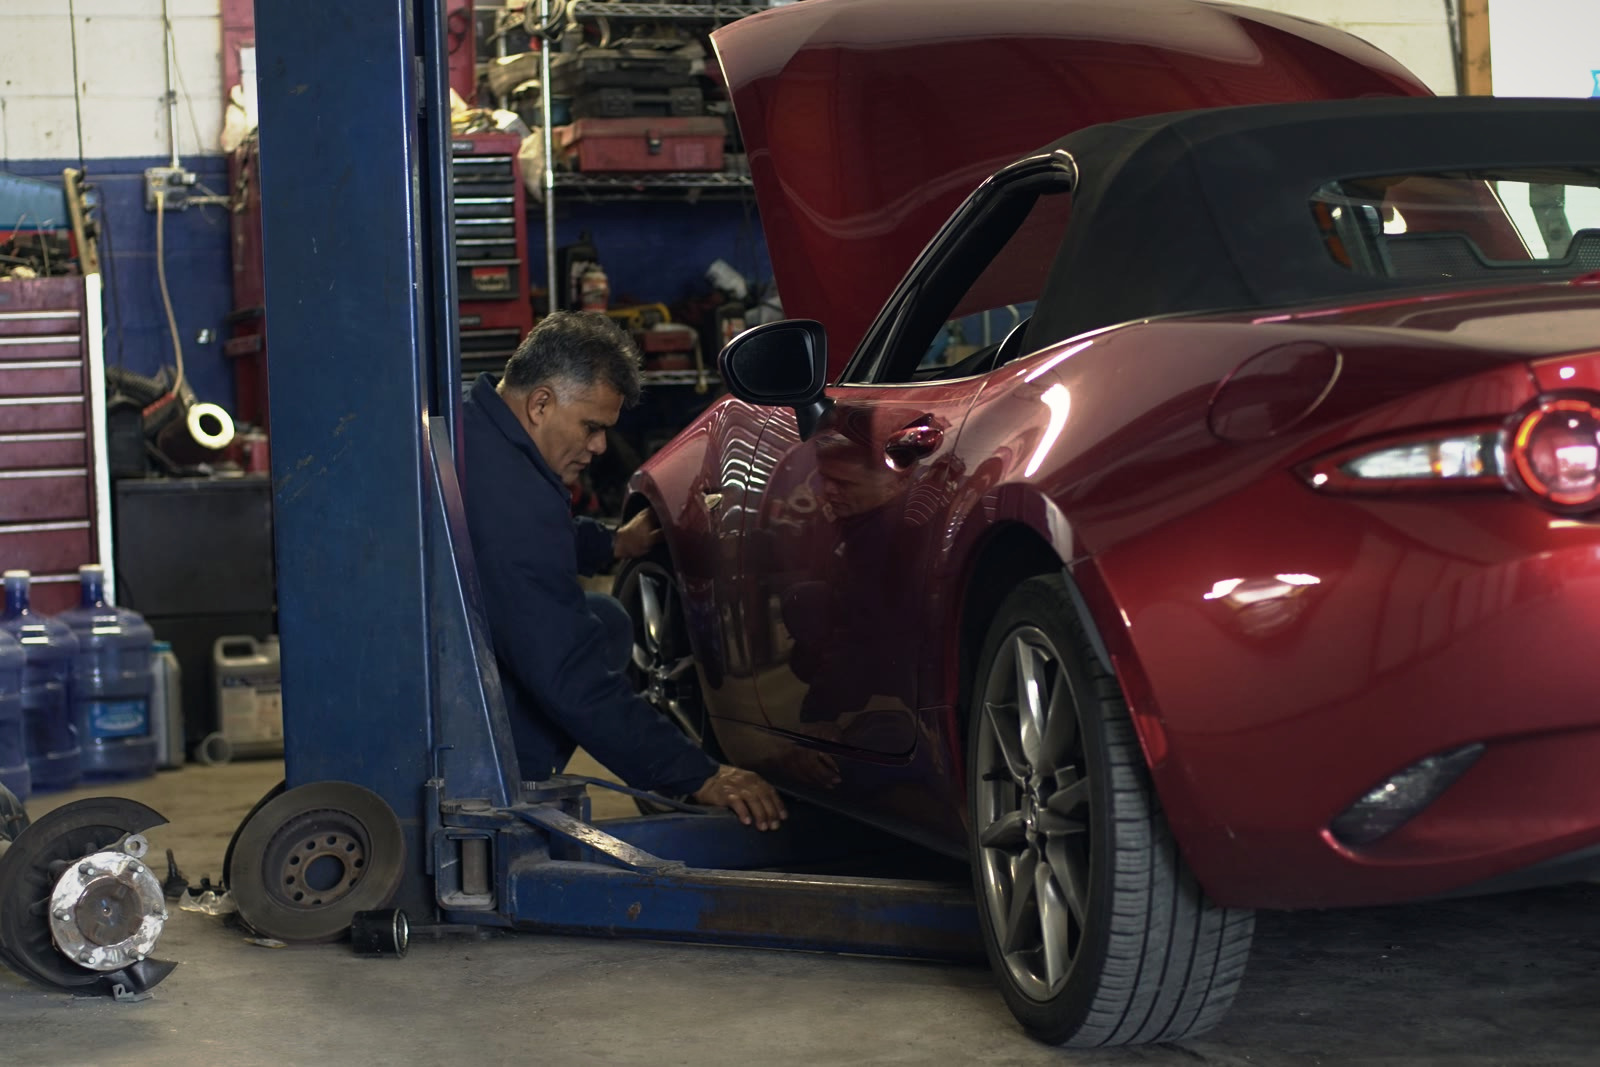
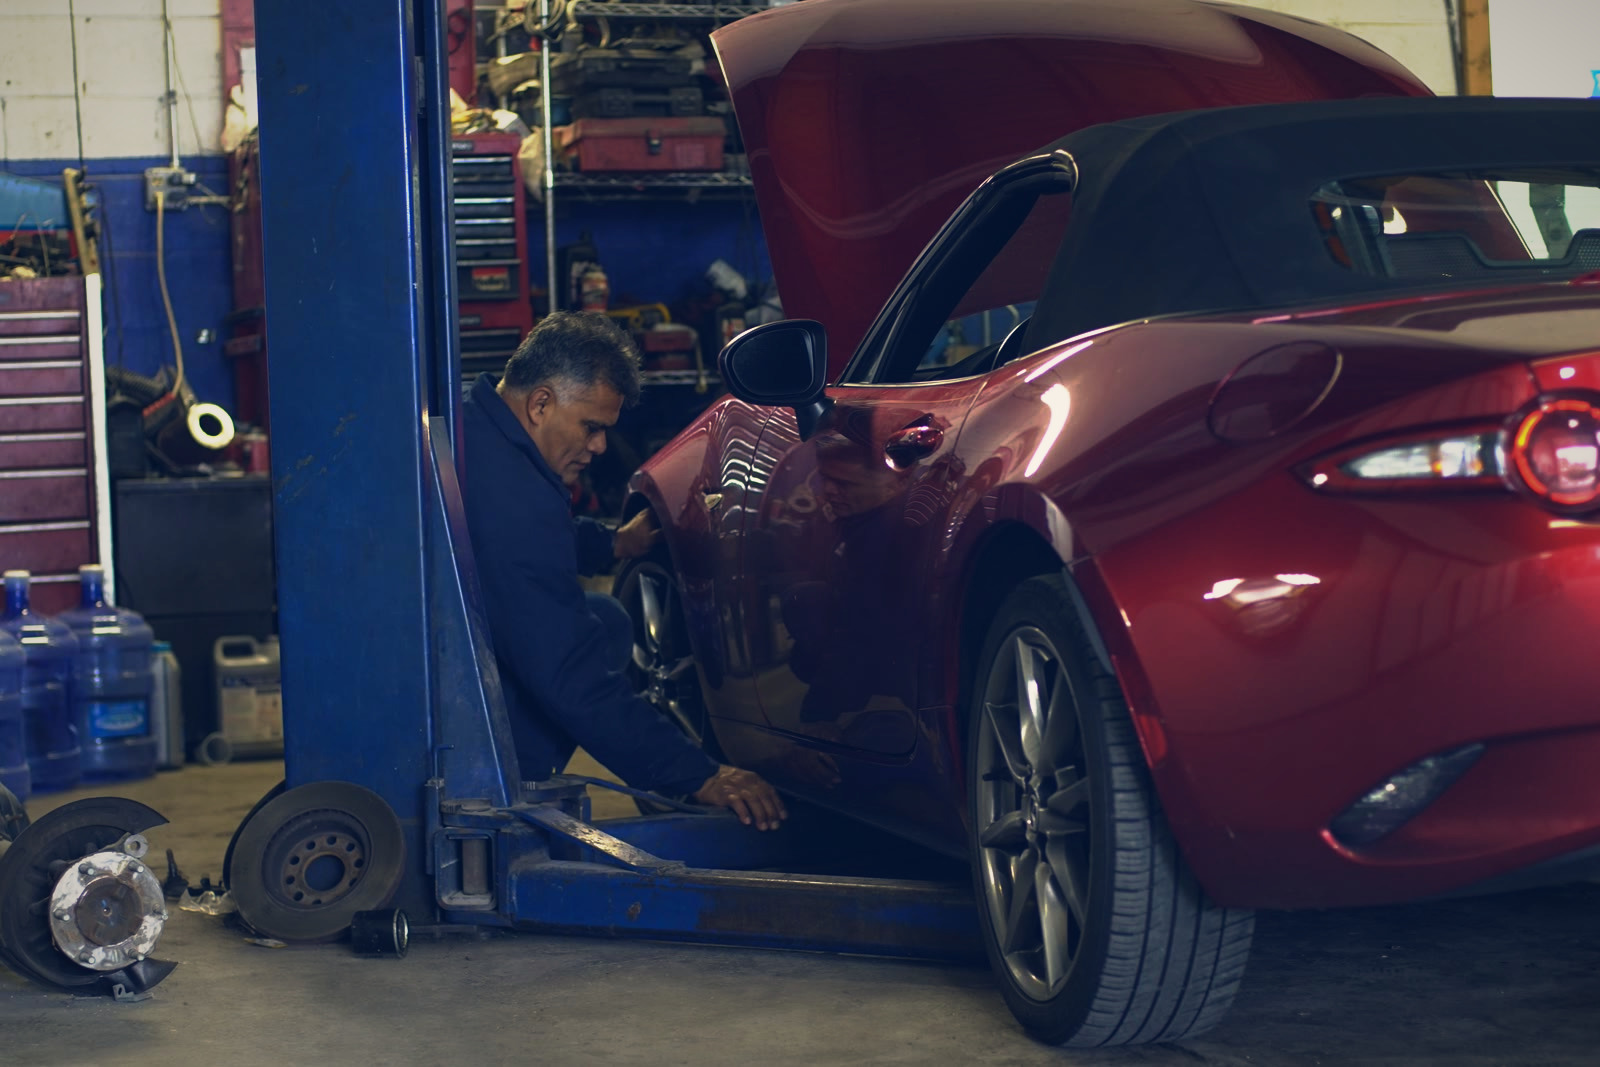
Bold navy and brass grade across all photos
Claude-Session: https://claude.ai/code/session_01Td5uHebw4EZcWURDu3Tcu7

diff --git a/tools/build_photos.py b/tools/build_photos.py
@@ -21,25 +21,25 @@ ROOT = os.path.dirname(os.path.dirname(os.path.abspath(__file__)))
 PHOTOS = {
     "tires": dict(out="services/tires-alignment",
         paste=[(845, 20, 1090, 290), (140, 470, 470, 880), (470, 470, 590, 580)],
-        grade=dict(exp=-0.10, contrast=0.30, hi=0.30, sat=0.85, red=0.62, navy=0.5, warm=0.30)),
+        grade=dict(exp=-0.15, contrast=0.50, hi=0.40, sat=1.12, red=0.70, blue=1.5, navy=1.8, warm=1.1, matte=0.8, vig=0.28)),
     "oil": dict(out="services/oil-change",
         paste=[(80, 500, 310, 900), (1225, 560, 1600, 1067)],
-        grade=dict(exp=-0.30, contrast=0.30, hi=0.9, sat=0.90, white=0.90, navy=0.5, warm=0.30)),
+        grade=dict(exp=-0.25, contrast=0.50, hi=0.90, sat=1.10, white=0.90, blue=1.4, navy=1.8, warm=1.1, matte=0.8, vig=0.28)),
     "steering": dict(out="services/steering-suspension",
         paste=[(150, 540, 575, 1067), (0, 790, 150, 1067)],
-        grade=dict(exp=-0.08, contrast=0.30, sat=0.92, navy=0.5, warm=0.30)),
+        grade=dict(exp=-0.12, contrast=0.50, hi=0.30, sat=1.10, blue=1.4, navy=1.8, warm=1.1, matte=0.8, vig=0.28)),
     "engine": dict(out="services/engine-diagnostics",
         paste=[(185, 955, 465, 1067), (640, 995, 745, 1055), (160, 870, 270, 935), (800, 985, 905, 1035)],
-        grade=dict(exp=-0.02, contrast=0.25, hi=0.4, sat=0.92, red=0.80, navy=0.45, warm=0.30)),
+        grade=dict(exp=-0.10, contrast=0.50, hi=0.50, sat=1.08, red=0.82, blue=1.5, navy=1.8, warm=1.1, matte=0.8, vig=0.28)),
     "brakes": dict(out="services/brakes",
-        grade=dict(exp=-0.05, contrast=0.30, hi=0.5, sat=0.90, navy=0.5, warm=0.30)),
+        grade=dict(exp=-0.02, contrast=0.50, hi=0.50, sat=1.10, blue=1.4, navy=1.8, warm=1.1, matte=0.8, vig=0.28)),
     "diff": dict(out="services/differentials",
-        grade=dict(exp=-0.30, contrast=0.30, hi=0.9, sat=0.90, white=0.90, navy=0.5, warm=0.30)),
+        grade=dict(exp=-0.25, contrast=0.50, hi=0.90, sat=1.10, white=0.90, blue=1.4, navy=1.8, warm=1.1, matte=0.8, vig=0.28)),
     "body": dict(out="services/bodywork-paint",
-        grade=dict(exp=-0.05, contrast=0.28, sat=0.88, navy=0.5, warm=0.30)),
+        grade=dict(exp=-0.05, contrast=0.45, hi=0.30, sat=1.05, blue=1.4, navy=1.6, warm=1.0, matte=0.7, vig=0.26)),
     "about": dict(out="team/team-1",
         blur=[(186, 548, 306, 642)],   # Virginia licence plate
-        grade=dict(exp=-0.05, contrast=0.28, hi=0.4, sat=0.90, red=0.78, navy=0.45, warm=0.30)),
+        grade=dict(exp=-0.10, contrast=0.50, hi=0.50, sat=1.08, red=0.80, blue=1.4, navy=1.8, warm=1.1, matte=0.8, vig=0.28)),
 }
 
 

diff --git a/tools/grade.py b/tools/grade.py
@@ -12,6 +12,8 @@ keys (all optional):
   warm     warm tint in highlights (0..1)     default 0.35
   vig      vignette strength (0..1)           default 0.15
   white    white point (0.8..1) pulls blown backgrounds down  default 1
+  blue     extra saturation on blues (uniforms, lifts) default 1
+  matte    lift blacks toward deep navy (0..1)  default 0
 """
 import sys
 import numpy as np
@@ -24,7 +26,7 @@ def smooth_s(x, k):
     return x * (1 - k) + s * k
 
 
-def grade(img, exp=0.0, contrast=0.25, hi=0.0, sat=0.9, red=1.0, navy=0.5, warm=0.35, vig=0.15, white=1.0):
+def grade(img, exp=0.0, contrast=0.25, hi=0.0, sat=0.9, red=1.0, navy=0.5, warm=0.35, vig=0.15, white=1.0, blue=1.0, matte=0.0):
     a = np.asarray(img.convert("RGB"), dtype=np.float32) / 255.0
     a = np.clip(a * (2.0 ** exp), 0, 1)
     if hi > 0:  # roll off highlights
@@ -40,11 +42,18 @@ def grade(img, exp=0.0, contrast=0.25, hi=0.0, sat=0.9, red=1.0, navy=0.5, warm=
         redness = np.clip((r - np.maximum(g, b)) * 3.0 - 0.15, 0, 1)[..., None]
         lum2 = (0.299 * r + 0.587 * g + 0.114 * b)[..., None]
         a = a + (lum2 + (a - lum2) * red - a) * redness
+    if blue != 1.0:  # richer blues only
+        r, g, b = a[..., 0], a[..., 1], a[..., 2]
+        blueness = np.clip((b - np.maximum(r, g)) * 4.0, 0, 1)[..., None]
+        lum3 = (0.299 * r + 0.587 * g + 0.114 * b)[..., None]
+        a = a + (lum3 + (a - lum3) * blue - a) * blueness
     lum = (0.299 * a[..., 0] + 0.587 * a[..., 1] + 0.114 * a[..., 2])[..., None]
     sh = (1 - lum) ** 2.2
     hl = lum ** 2.2
     a = a + sh * navy * np.array([-0.010, 0.012, 0.050], dtype=np.float32)
     a = a + hl * warm * np.array([0.045, 0.020, -0.020], dtype=np.float32)
+    if matte > 0:  # navy-tinted blacks
+        a = a * (1 - matte * 0.06) + matte * np.array([0.02, 0.045, 0.10], dtype=np.float32) * (1 - lum) ** 1.5
     if vig > 0:
         h, w = a.shape[:2]
         yy, xx = np.mgrid[0:h, 0:w].astype(np.float32)
